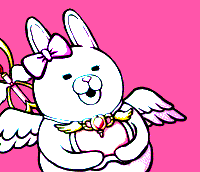
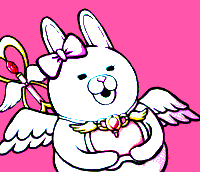
Usami: shift pose 5 right to balance its lean
front05 leans to our left, leaving the right side empty. find_crops.py
gets a per-pose SHIFT_X; front05 moves 53 source px (about 15 px on emery),
just short of cutting the right wing tip.

diff --git a/faces/usami/tools/find_crops.py b/faces/usami/tools/find_crops.py
@@ -9,8 +9,9 @@ is always higher up).
 
 The window runs from ABOVE px above the brooch (just over the ear tips) to
 BELOW px under it (the top of the skirt, so the bottom is cropped off the way
-Monokuma's originals stop at his belly), centered on the brooch. Anything
-outside it, such as the top of a raised wand or the wing tips, is cut off.
+Monokuma's originals stop at his belly), centered on the brooch, give or take
+a pose's SHIFT_X. Anything outside it, such as the top of a raised wand or the
+wing tips, is cut off.
 shared/tools/convert_images.py scales the window to each platform's
 foreground size.
 
@@ -28,6 +29,11 @@ from scipy import ndimage
 ABOVE = 440        # window top, in source px above the brooch
 BELOW = 170        # window bottom, in source px below the brooch
 MIN_CLUSTER = 40   # ignore red specks smaller than this (px)
+
+# Per-pose nudges, in source px: positive moves Usami right in the frame
+# (the window left). front05 leans to our left, leaving the right side empty;
+# 53 px is about 15 px on emery, just short of cutting the right wing tip.
+SHIFT_X = {"front05.png": 53}
 
 
 def find_brooch(path):
@@ -58,7 +64,8 @@ def main():
     while os.path.exists(os.path.join(unscaled, f"front{n:02d}.png")):
         name = f"front{n:02d}.png"
         x, y = find_brooch(os.path.join(unscaled, name))
-        crops[name] = {"center_x": x, "top": y - ABOVE, "bottom": y + BELOW}
+        crops[name] = {"center_x": x - SHIFT_X.get(name, 0),
+                       "top": y - ABOVE, "bottom": y + BELOW}
         print(f"{name}: brooch at ({x}, {y})")
         n += 1
     config["crops"] = crops
